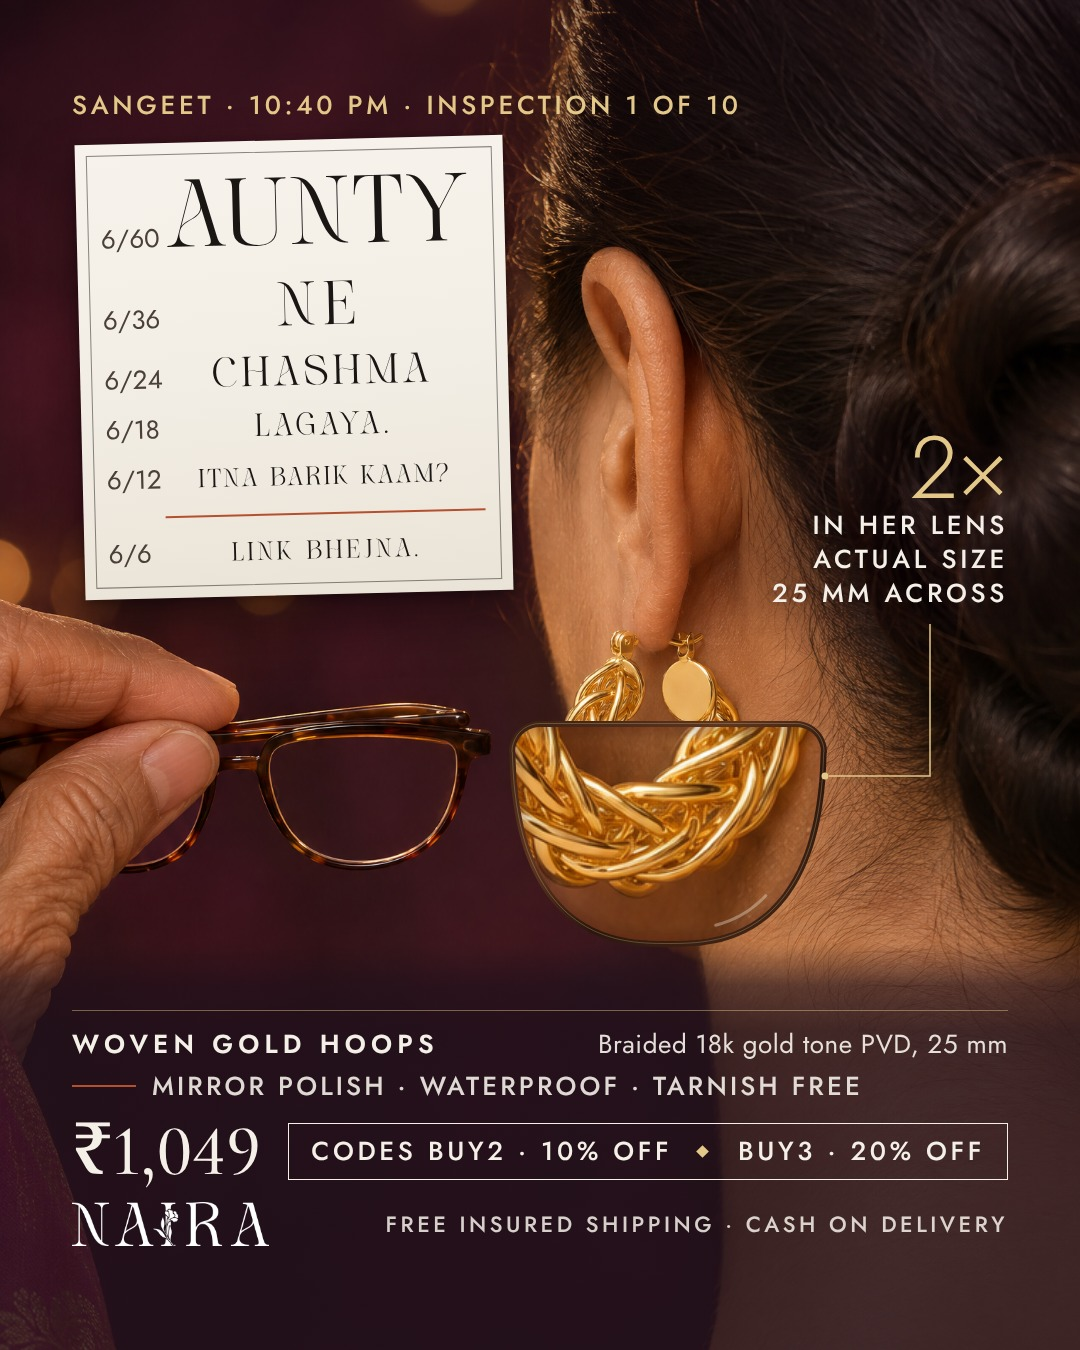
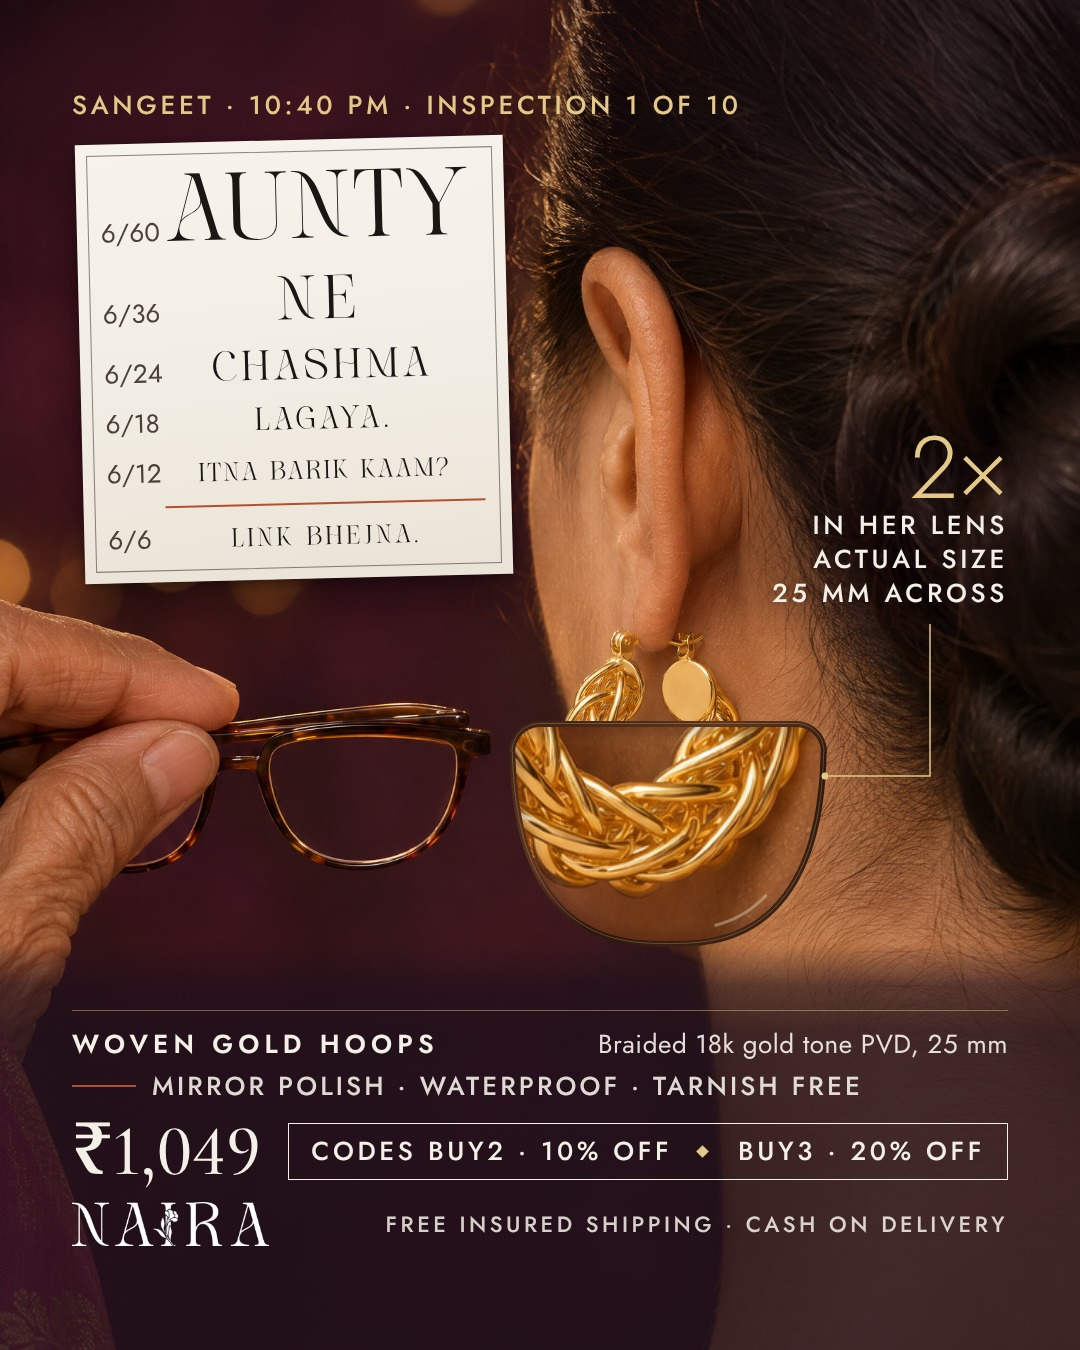
Crazy 100: batch progress
Claude-Session: https://claude.ai/code/session_015dHqE92KQXn2h19sPkpsQR

Changed region(s): [[0.0611, 0.1244, 0.4889, 0.4667], [0.0917, 0.2178, 0.1528, 0.3733]]

diff --git a/docs/creative/concept-50/batches/k01r/k01-1_V3_story.html b/docs/creative/concept-50/batches/k01r/k01-1_V3_story.html
@@ -60,14 +60,14 @@
 <svg class="lens" viewBox="0 0 1080 1920" width="1080" height="1920" aria-hidden="true"><defs><clipPath id="V3sc"><path d="M545.0 900.0 L793.0 900.0 L797.1 900.3 L801.0 901.3 L804.8 902.8 L808.3 905.0 L811.4 907.6 L814.0 910.7 L816.2 914.2 L817.7 918.0 L818.7 921.9 L819.0 926.0 L818.4 929.9 L817.9 937.3 L817.2 944.2 L816.5 950.8 L815.6 957.1 L814.5 963.1 L813.3 968.9 L812.0 974.5 L810.5 979.9 L808.9 985.1 L807.2 990.1 L805.3 995.0 L803.3 999.7 L801.1 1004.3 L798.9 1008.7 L796.4 1013.0 L793.9 1017.1 L791.2 1021.0 L788.4 1024.8 L785.4 1028.5 L782.3 1031.9 L779.1 1035.3 L775.8 1038.5 L772.3 1041.5 L768.7 1044.4 L764.9 1047.2 L761.0 1049.8 L757.0 1052.2 L752.8 1054.5 L748.5 1056.6 L744.1 1058.6 L739.5 1060.4 L734.7 1062.1 L729.8 1063.6 L724.7 1064.9 L719.3 1066.1 L713.8 1067.1 L708.0 1068.0 L701.9 1068.7 L695.4 1069.3 L688.3 1069.7 L680.4 1069.9 L669.0 1070.0 L657.6 1069.9 L649.7 1069.7 L642.6 1069.3 L636.1 1068.7 L630.0 1068.0 L624.2 1067.1 L618.7 1066.1 L613.3 1064.9 L608.2 1063.6 L603.3 1062.1 L598.5 1060.4 L593.9 1058.6 L589.5 1056.6 L585.2 1054.5 L581.0 1052.2 L577.0 1049.8 L573.1 1047.2 L569.3 1044.4 L565.7 1041.5 L562.2 1038.5 L558.9 1035.3 L555.7 1031.9 L552.6 1028.5 L549.6 1024.8 L546.8 1021.0 L544.1 1017.1 L541.6 1013.0 L539.1 1008.7 L536.9 1004.3 L534.7 999.7 L532.7 995.0 L530.8 990.1 L529.1 985.1 L527.5 979.9 L526.0 974.5 L524.7 968.9 L523.5 963.1 L522.4 957.1 L521.5 950.8 L520.8 944.2 L520.1 937.3 L519.6 929.9 L519.0 926.0 L519.3 921.9 L520.3 918.0 L521.8 914.2 L524.0 910.7 L526.6 907.6 L529.7 905.0 L533.2 902.8 L537.0 901.3 L540.9 900.3 L545.0 900.0 Z"/></clipPath><filter id="V3sb" x="-20%" y="-20%" width="140%" height="140%"><feGaussianBlur stdDeviation="6"/></filter><linearGradient id="V3sg" x1="0" y1="0" x2="1" y2="1"><stop offset="0" stop-color="#3B2114"/><stop offset=".35" stop-color="#5E3520"/><stop offset=".6" stop-color="#2B170E"/><stop offset="1" stop-color="#4A2A18"/></linearGradient></defs><g clip-path="url(#V3sc)"><image href="pics/k01-1A.png" x="-674.71" y="-976.38" width="2171.43" height="3840.00" preserveAspectRatio="none"/><path d="M545.0 900.0 L793.0 900.0 L797.1 900.3 L801.0 901.3 L804.8 902.8 L808.3 905.0 L811.4 907.6 L814.0 910.7 L816.2 914.2 L817.7 918.0 L818.7 921.9 L819.0 926.0 L818.4 929.9 L817.9 937.3 L817.2 944.2 L816.5 950.8 L815.6 957.1 L814.5 963.1 L813.3 968.9 L812.0 974.5 L810.5 979.9 L808.9 985.1 L807.2 990.1 L805.3 995.0 L803.3 999.7 L801.1 1004.3 L798.9 1008.7 L796.4 1013.0 L793.9 1017.1 L791.2 1021.0 L788.4 1024.8 L785.4 1028.5 L782.3 1031.9 L779.1 1035.3 L775.8 1038.5 L772.3 1041.5 L768.7 1044.4 L764.9 1047.2 L761.0 1049.8 L757.0 1052.2 L752.8 1054.5 L748.5 1056.6 L744.1 1058.6 L739.5 1060.4 L734.7 1062.1 L729.8 1063.6 L724.7 1064.9 L719.3 1066.1 L713.8 1067.1 L708.0 1068.0 L701.9 1068.7 L695.4 1069.3 L688.3 1069.7 L680.4 1069.9 L669.0 1070.0 L657.6 1069.9 L649.7 1069.7 L642.6 1069.3 L636.1 1068.7 L630.0 1068.0 L624.2 1067.1 L618.7 1066.1 L613.3 1064.9 L608.2 1063.6 L603.3 1062.1 L598.5 1060.4 L593.9 1058.6 L589.5 1056.6 L585.2 1054.5 L581.0 1052.2 L577.0 1049.8 L573.1 1047.2 L569.3 1044.4 L565.7 1041.5 L562.2 1038.5 L558.9 1035.3 L555.7 1031.9 L552.6 1028.5 L549.6 1024.8 L546.8 1021.0 L544.1 1017.1 L541.6 1013.0 L539.1 1008.7 L536.9 1004.3 L534.7 999.7 L532.7 995.0 L530.8 990.1 L529.1 985.1 L527.5 979.9 L526.0 974.5 L524.7 968.9 L523.5 963.1 L522.4 957.1 L521.5 950.8 L520.8 944.2 L520.1 937.3 L519.6 929.9 L519.0 926.0 L519.3 921.9 L520.3 918.0 L521.8 914.2 L524.0 910.7 L526.6 907.6 L529.7 905.0 L533.2 902.8 L537.0 901.3 L540.9 900.3 L545.0 900.0 Z" fill="none" stroke="rgba(26,22,20,0.22)" stroke-width="18" filter="url(#V3sb)"/></g><path d="M545.0 900.0 L793.0 900.0 L797.1 900.3 L801.0 901.3 L804.8 902.8 L808.3 905.0 L811.4 907.6 L814.0 910.7 L816.2 914.2 L817.7 918.0 L818.7 921.9 L819.0 926.0 L818.4 929.9 L817.9 937.3 L817.2 944.2 L816.5 950.8 L815.6 957.1 L814.5 963.1 L813.3 968.9 L812.0 974.5 L810.5 979.9 L808.9 985.1 L807.2 990.1 L805.3 995.0 L803.3 999.7 L801.1 1004.3 L798.9 1008.7 L796.4 1013.0 L793.9 1017.1 L791.2 1021.0 L788.4 1024.8 L785.4 1028.5 L782.3 1031.9 L779.1 1035.3 L775.8 1038.5 L772.3 1041.5 L768.7 1044.4 L764.9 1047.2 L761.0 1049.8 L757.0 1052.2 L752.8 1054.5 L748.5 1056.6 L744.1 1058.6 L739.5 1060.4 L734.7 1062.1 L729.8 1063.6 L724.7 1064.9 L719.3 1066.1 L713.8 1067.1 L708.0 1068.0 L701.9 1068.7 L695.4 1069.3 L688.3 1069.7 L680.4 1069.9 L669.0 1070.0 L657.6 1069.9 L649.7 1069.7 L642.6 1069.3 L636.1 1068.7 L630.0 1068.0 L624.2 1067.1 L618.7 1066.1 L613.3 1064.9 L608.2 1063.6 L603.3 1062.1 L598.5 1060.4 L593.9 1058.6 L589.5 1056.6 L585.2 1054.5 L581.0 1052.2 L577.0 1049.8 L573.1 1047.2 L569.3 1044.4 L565.7 1041.5 L562.2 1038.5 L558.9 1035.3 L555.7 1031.9 L552.6 1028.5 L549.6 1024.8 L546.8 1021.0 L544.1 1017.1 L541.6 1013.0 L539.1 1008.7 L536.9 1004.3 L534.7 999.7 L532.7 995.0 L530.8 990.1 L529.1 985.1 L527.5 979.9 L526.0 974.5 L524.7 968.9 L523.5 963.1 L522.4 957.1 L521.5 950.8 L520.8 944.2 L520.1 937.3 L519.6 929.9 L519.0 926.0 L519.3 921.9 L520.3 918.0 L521.8 914.2 L524.0 910.7 L526.6 907.6 L529.7 905.0 L533.2 902.8 L537.0 901.3 L540.9 900.3 L545.0 900.0 Z" fill="none" stroke="url(#V3sg)" stroke-width="6" stroke-linejoin="round"/><path d="M545.0 900.0 L793.0 900.0 L797.1 900.3 L801.0 901.3 L804.8 902.8 L808.3 905.0 L811.4 907.6 L814.0 910.7 L816.2 914.2 L817.7 918.0 L818.7 921.9 L819.0 926.0 L818.4 929.9 L817.9 937.3 L817.2 944.2 L816.5 950.8 L815.6 957.1 L814.5 963.1 L813.3 968.9 L812.0 974.5 L810.5 979.9 L808.9 985.1 L807.2 990.1 L805.3 995.0 L803.3 999.7 L801.1 1004.3 L798.9 1008.7 L796.4 1013.0 L793.9 1017.1 L791.2 1021.0 L788.4 1024.8 L785.4 1028.5 L782.3 1031.9 L779.1 1035.3 L775.8 1038.5 L772.3 1041.5 L768.7 1044.4 L764.9 1047.2 L761.0 1049.8 L757.0 1052.2 L752.8 1054.5 L748.5 1056.6 L744.1 1058.6 L739.5 1060.4 L734.7 1062.1 L729.8 1063.6 L724.7 1064.9 L719.3 1066.1 L713.8 1067.1 L708.0 1068.0 L701.9 1068.7 L695.4 1069.3 L688.3 1069.7 L680.4 1069.9 L669.0 1070.0 L657.6 1069.9 L649.7 1069.7 L642.6 1069.3 L636.1 1068.7 L630.0 1068.0 L624.2 1067.1 L618.7 1066.1 L613.3 1064.9 L608.2 1063.6 L603.3 1062.1 L598.5 1060.4 L593.9 1058.6 L589.5 1056.6 L585.2 1054.5 L581.0 1052.2 L577.0 1049.8 L573.1 1047.2 L569.3 1044.4 L565.7 1041.5 L562.2 1038.5 L558.9 1035.3 L555.7 1031.9 L552.6 1028.5 L549.6 1024.8 L546.8 1021.0 L544.1 1017.1 L541.6 1013.0 L539.1 1008.7 L536.9 1004.3 L534.7 999.7 L532.7 995.0 L530.8 990.1 L529.1 985.1 L527.5 979.9 L526.0 974.5 L524.7 968.9 L523.5 963.1 L522.4 957.1 L521.5 950.8 L520.8 944.2 L520.1 937.3 L519.6 929.9 L519.0 926.0 L519.3 921.9 L520.3 918.0 L521.8 914.2 L524.0 910.7 L526.6 907.6 L529.7 905.0 L533.2 902.8 L537.0 901.3 L540.9 900.3 L545.0 900.0 Z" fill="none" stroke="#E4C889" stroke-opacity=".28" stroke-width="1" stroke-linejoin="round" transform="translate(0,-.5)"/><path d="M762.6 1029.9 L759.4 1032.5 L756.0 1035.0 L752.4 1037.4 L748.8 1039.7 L745.0 1041.8 L741.1 1043.7 L737.1 1045.5 L732.9 1047.2 L728.6 1048.7 L724.1 1050.1 L719.5 1051.3 L714.7 1052.4" fill="none" stroke="#F4F0E8" stroke-opacity=".35" stroke-width="3" stroke-linecap="round"/></svg>
 <svg class="ovl ink" viewBox="0 0 1080 1920" width="1080" height="1920" aria-hidden="true"><path d="M 930 774 V 940 H 823" fill="none" stroke="#E4C889" stroke-width="1.5"/><circle cx="819" cy="940" r="3.5" fill="#E4C889"/></svg>
 <p class="rail" id="rail" style="right:72px;top:276px;text-align:right">Sangeet · 10:40 PM<br>Inspection 1 of 10</p>
-<div class="card3" id="card3" data-t style="left:80px;top:284px;width:436px;padding:30px 26px 26px 24px;transform:rotate(-1.4deg)">
+<div class="card3" id="card3" data-t style="left:80px;top:284px;width:436px;padding:24px 26px 24px 24px;transform:rotate(-1.4deg)">
  <div class="crow" style="margin-top:0px"><span class="cm" id="cm1">6/60</span><span class="cw" id="cw1" style="font-size:98px;letter-spacing:0.03em">Aunty</span></div>
  <div class="crow" style="margin-top:14px"><span class="cm" id="cm2">6/36</span><span class="cw" id="cw2" style="font-size:64px;letter-spacing:0.12em">Ne</span></div>
  <div class="crow" style="margin-top:14px"><span class="cm" id="cm3">6/24</span><span class="cw" id="cw3" style="font-size:44px;letter-spacing:0.1em">Chashma</span></div>
  <div class="crow" style="margin-top:12px"><span class="cm" id="cm4">6/18</span><span class="cw" id="cw4" style="font-size:33px;letter-spacing:0.12em">Lagaya.</span></div>
  <div class="crow" style="margin-top:12px"><span class="cm" id="cm5">6/12</span><span class="cw" id="cw5" style="font-size:26px;letter-spacing:0.08em">Itna barik kaam?</span></div>
- <div class="red" style="margin-top:18px"></div>
- <div class="crow" style="margin-top:16px"><span class="cm" id="cm7">6/6</span><span class="cw" id="cw7" style="font-size:26px;letter-spacing:0.12em">Link bhejna.</span></div>
+ <div class="red" style="margin-top:14px"></div>
+ <div class="crow" style="margin-top:12px"><span class="cm" id="cm7">6/6</span><span class="cw" id="cw7" style="font-size:26px;letter-spacing:0.12em">Link bhejna.</span></div>
 </div>
 <div class="two" id="two" data-t style="right:72px;top:574px"><span class="x" id="x2">2×</span><span class="l">in her lens</span><span class="l">actual size</span><span class="l">25 mm across</span></div>
 <div class="f2" id="f2" data-t style="top:1088px">

diff --git a/docs/creative/concept-50/batches/k01r/k01-1_V3_feed.html b/docs/creative/concept-50/batches/k01r/k01-1_V3_feed.html
@@ -58,14 +58,14 @@
 <svg class="lens" viewBox="0 0 1080 1350" width="1080" height="1350" aria-hidden="true"><defs><clipPath id="V3fc"><path d="M540.0 724.0 L796.0 724.0 L800.4 724.3 L804.7 725.4 L808.7 727.1 L812.5 729.3 L815.8 732.2 L818.7 735.5 L820.9 739.3 L822.6 743.3 L823.7 747.6 L824.0 752.0 L823.7 752.4 L823.3 762.7 L822.8 772.3 L822.2 781.2 L821.4 789.7 L820.4 797.8 L819.3 805.6 L818.1 813.1 L816.7 820.4 L815.2 827.4 L813.5 834.1 L811.7 840.7 L809.8 847.0 L807.7 853.1 L805.4 859.0 L803.0 864.7 L800.5 870.2 L797.9 875.5 L795.1 880.6 L792.2 885.5 L789.1 890.2 L785.9 894.8 L782.5 899.1 L779.0 903.2 L775.4 907.2 L771.7 910.9 L767.8 914.5 L763.7 917.8 L759.5 921.0 L755.2 923.9 L750.7 926.7 L746.1 929.2 L741.3 931.6 L736.3 933.7 L731.2 935.7 L725.9 937.4 L720.4 939.0 L714.6 940.3 L708.6 941.4 L702.2 942.4 L695.5 943.1 L688.1 943.6 L679.8 943.9 L668.0 944.0 L656.2 943.9 L647.9 943.6 L640.5 943.1 L633.8 942.4 L627.4 941.4 L621.4 940.3 L615.6 939.0 L610.1 937.4 L604.8 935.7 L599.7 933.7 L594.7 931.6 L589.9 929.2 L585.3 926.7 L580.8 923.9 L576.5 921.0 L572.3 917.8 L568.2 914.5 L564.3 910.9 L560.6 907.2 L557.0 903.2 L553.5 899.1 L550.1 894.8 L546.9 890.2 L543.8 885.5 L540.9 880.6 L538.1 875.5 L535.5 870.2 L533.0 864.7 L530.6 859.0 L528.3 853.1 L526.2 847.0 L524.3 840.7 L522.5 834.1 L520.8 827.4 L519.3 820.4 L517.9 813.1 L516.7 805.6 L515.6 797.8 L514.6 789.7 L513.8 781.2 L513.2 772.3 L512.7 762.7 L512.3 752.4 L512.0 752.0 L512.3 747.6 L513.4 743.3 L515.1 739.3 L517.3 735.5 L520.2 732.2 L523.5 729.3 L527.3 727.1 L531.3 725.4 L535.6 724.3 L540.0 724.0 Z"/></clipPath><filter id="V3fb" x="-20%" y="-20%" width="140%" height="140%"><feGaussianBlur stdDeviation="6"/></filter><linearGradient id="V3fg" x1="0" y1="0" x2="1" y2="1"><stop offset="0" stop-color="#3B2114"/><stop offset=".35" stop-color="#5E3520"/><stop offset=".6" stop-color="#2B170E"/><stop offset="1" stop-color="#4A2A18"/></linearGradient></defs><g clip-path="url(#V3fc)"><image href="pics/k01-1A.png" x="-668.00" y="-1136.32" width="2160.00" height="3819.79" preserveAspectRatio="none"/><path d="M540.0 724.0 L796.0 724.0 L800.4 724.3 L804.7 725.4 L808.7 727.1 L812.5 729.3 L815.8 732.2 L818.7 735.5 L820.9 739.3 L822.6 743.3 L823.7 747.6 L824.0 752.0 L823.7 752.4 L823.3 762.7 L822.8 772.3 L822.2 781.2 L821.4 789.7 L820.4 797.8 L819.3 805.6 L818.1 813.1 L816.7 820.4 L815.2 827.4 L813.5 834.1 L811.7 840.7 L809.8 847.0 L807.7 853.1 L805.4 859.0 L803.0 864.7 L800.5 870.2 L797.9 875.5 L795.1 880.6 L792.2 885.5 L789.1 890.2 L785.9 894.8 L782.5 899.1 L779.0 903.2 L775.4 907.2 L771.7 910.9 L767.8 914.5 L763.7 917.8 L759.5 921.0 L755.2 923.9 L750.7 926.7 L746.1 929.2 L741.3 931.6 L736.3 933.7 L731.2 935.7 L725.9 937.4 L720.4 939.0 L714.6 940.3 L708.6 941.4 L702.2 942.4 L695.5 943.1 L688.1 943.6 L679.8 943.9 L668.0 944.0 L656.2 943.9 L647.9 943.6 L640.5 943.1 L633.8 942.4 L627.4 941.4 L621.4 940.3 L615.6 939.0 L610.1 937.4 L604.8 935.7 L599.7 933.7 L594.7 931.6 L589.9 929.2 L585.3 926.7 L580.8 923.9 L576.5 921.0 L572.3 917.8 L568.2 914.5 L564.3 910.9 L560.6 907.2 L557.0 903.2 L553.5 899.1 L550.1 894.8 L546.9 890.2 L543.8 885.5 L540.9 880.6 L538.1 875.5 L535.5 870.2 L533.0 864.7 L530.6 859.0 L528.3 853.1 L526.2 847.0 L524.3 840.7 L522.5 834.1 L520.8 827.4 L519.3 820.4 L517.9 813.1 L516.7 805.6 L515.6 797.8 L514.6 789.7 L513.8 781.2 L513.2 772.3 L512.7 762.7 L512.3 752.4 L512.0 752.0 L512.3 747.6 L513.4 743.3 L515.1 739.3 L517.3 735.5 L520.2 732.2 L523.5 729.3 L527.3 727.1 L531.3 725.4 L535.6 724.3 L540.0 724.0 Z" fill="none" stroke="rgba(26,22,20,0.22)" stroke-width="18" filter="url(#V3fb)"/></g><path d="M540.0 724.0 L796.0 724.0 L800.4 724.3 L804.7 725.4 L808.7 727.1 L812.5 729.3 L815.8 732.2 L818.7 735.5 L820.9 739.3 L822.6 743.3 L823.7 747.6 L824.0 752.0 L823.7 752.4 L823.3 762.7 L822.8 772.3 L822.2 781.2 L821.4 789.7 L820.4 797.8 L819.3 805.6 L818.1 813.1 L816.7 820.4 L815.2 827.4 L813.5 834.1 L811.7 840.7 L809.8 847.0 L807.7 853.1 L805.4 859.0 L803.0 864.7 L800.5 870.2 L797.9 875.5 L795.1 880.6 L792.2 885.5 L789.1 890.2 L785.9 894.8 L782.5 899.1 L779.0 903.2 L775.4 907.2 L771.7 910.9 L767.8 914.5 L763.7 917.8 L759.5 921.0 L755.2 923.9 L750.7 926.7 L746.1 929.2 L741.3 931.6 L736.3 933.7 L731.2 935.7 L725.9 937.4 L720.4 939.0 L714.6 940.3 L708.6 941.4 L702.2 942.4 L695.5 943.1 L688.1 943.6 L679.8 943.9 L668.0 944.0 L656.2 943.9 L647.9 943.6 L640.5 943.1 L633.8 942.4 L627.4 941.4 L621.4 940.3 L615.6 939.0 L610.1 937.4 L604.8 935.7 L599.7 933.7 L594.7 931.6 L589.9 929.2 L585.3 926.7 L580.8 923.9 L576.5 921.0 L572.3 917.8 L568.2 914.5 L564.3 910.9 L560.6 907.2 L557.0 903.2 L553.5 899.1 L550.1 894.8 L546.9 890.2 L543.8 885.5 L540.9 880.6 L538.1 875.5 L535.5 870.2 L533.0 864.7 L530.6 859.0 L528.3 853.1 L526.2 847.0 L524.3 840.7 L522.5 834.1 L520.8 827.4 L519.3 820.4 L517.9 813.1 L516.7 805.6 L515.6 797.8 L514.6 789.7 L513.8 781.2 L513.2 772.3 L512.7 762.7 L512.3 752.4 L512.0 752.0 L512.3 747.6 L513.4 743.3 L515.1 739.3 L517.3 735.5 L520.2 732.2 L523.5 729.3 L527.3 727.1 L531.3 725.4 L535.6 724.3 L540.0 724.0 Z" fill="none" stroke="url(#V3fg)" stroke-width="6" stroke-linejoin="round"/><path d="M540.0 724.0 L796.0 724.0 L800.4 724.3 L804.7 725.4 L808.7 727.1 L812.5 729.3 L815.8 732.2 L818.7 735.5 L820.9 739.3 L822.6 743.3 L823.7 747.6 L824.0 752.0 L823.7 752.4 L823.3 762.7 L822.8 772.3 L822.2 781.2 L821.4 789.7 L820.4 797.8 L819.3 805.6 L818.1 813.1 L816.7 820.4 L815.2 827.4 L813.5 834.1 L811.7 840.7 L809.8 847.0 L807.7 853.1 L805.4 859.0 L803.0 864.7 L800.5 870.2 L797.9 875.5 L795.1 880.6 L792.2 885.5 L789.1 890.2 L785.9 894.8 L782.5 899.1 L779.0 903.2 L775.4 907.2 L771.7 910.9 L767.8 914.5 L763.7 917.8 L759.5 921.0 L755.2 923.9 L750.7 926.7 L746.1 929.2 L741.3 931.6 L736.3 933.7 L731.2 935.7 L725.9 937.4 L720.4 939.0 L714.6 940.3 L708.6 941.4 L702.2 942.4 L695.5 943.1 L688.1 943.6 L679.8 943.9 L668.0 944.0 L656.2 943.9 L647.9 943.6 L640.5 943.1 L633.8 942.4 L627.4 941.4 L621.4 940.3 L615.6 939.0 L610.1 937.4 L604.8 935.7 L599.7 933.7 L594.7 931.6 L589.9 929.2 L585.3 926.7 L580.8 923.9 L576.5 921.0 L572.3 917.8 L568.2 914.5 L564.3 910.9 L560.6 907.2 L557.0 903.2 L553.5 899.1 L550.1 894.8 L546.9 890.2 L543.8 885.5 L540.9 880.6 L538.1 875.5 L535.5 870.2 L533.0 864.7 L530.6 859.0 L528.3 853.1 L526.2 847.0 L524.3 840.7 L522.5 834.1 L520.8 827.4 L519.3 820.4 L517.9 813.1 L516.7 805.6 L515.6 797.8 L514.6 789.7 L513.8 781.2 L513.2 772.3 L512.7 762.7 L512.3 752.4 L512.0 752.0 L512.3 747.6 L513.4 743.3 L515.1 739.3 L517.3 735.5 L520.2 732.2 L523.5 729.3 L527.3 727.1 L531.3 725.4 L535.6 724.3 L540.0 724.0 Z" fill="none" stroke="#E4C889" stroke-opacity=".28" stroke-width="1" stroke-linejoin="round" transform="translate(0,-.5)"/><path d="M765.8 895.5 L762.4 899.0 L758.8 902.3 L755.1 905.5 L751.3 908.4 L747.4 911.2 L743.3 913.8 L739.1 916.2 L734.7 918.4 L730.2 920.4 L725.5 922.2 L720.7 923.8 L715.7 925.3" fill="none" stroke="#F4F0E8" stroke-opacity=".35" stroke-width="3" stroke-linecap="round"/></svg>
 <svg class="ovl ink" viewBox="0 0 1080 1350" width="1080" height="1350" aria-hidden="true"><path d="M 930 624 V 776 H 829" fill="none" stroke="#E4C889" stroke-width="1.5"/><circle cx="825" cy="776" r="3.5" fill="#E4C889"/></svg>
 <p class="rail" id="rail" style="left:72px;top:88px">Sangeet · 10:40 PM · Inspection 1 of 10</p>
-<div class="card3" id="card3" data-t style="left:80px;top:140px;width:428px;padding:30px 26px 26px 24px;transform:rotate(-1.4deg)">
+<div class="card3" id="card3" data-t style="left:80px;top:140px;width:428px;padding:24px 26px 24px 24px;transform:rotate(-1.4deg)">
  <div class="crow" style="margin-top:0px"><span class="cm" id="cm1">6/60</span><span class="cw" id="cw1" style="font-size:96px;letter-spacing:0.03em">Aunty</span></div>
  <div class="crow" style="margin-top:14px"><span class="cm" id="cm2">6/36</span><span class="cw" id="cw2" style="font-size:62px;letter-spacing:0.12em">Ne</span></div>
  <div class="crow" style="margin-top:14px"><span class="cm" id="cm3">6/24</span><span class="cw" id="cw3" style="font-size:42px;letter-spacing:0.1em">Chashma</span></div>
  <div class="crow" style="margin-top:12px"><span class="cm" id="cm4">6/18</span><span class="cw" id="cw4" style="font-size:32px;letter-spacing:0.12em">Lagaya.</span></div>
  <div class="crow" style="margin-top:12px"><span class="cm" id="cm5">6/12</span><span class="cw" id="cw5" style="font-size:26px;letter-spacing:0.08em">Itna barik kaam?</span></div>
- <div class="red" style="margin-top:18px"></div>
- <div class="crow" style="margin-top:16px"><span class="cm" id="cm7">6/6</span><span class="cw" id="cw7" style="font-size:26px;letter-spacing:0.12em">Link bhejna.</span></div>
+ <div class="red" style="margin-top:14px"></div>
+ <div class="crow" style="margin-top:12px"><span class="cm" id="cm7">6/6</span><span class="cw" id="cw7" style="font-size:26px;letter-spacing:0.12em">Link bhejna.</span></div>
 </div>
 <div class="two" id="two" data-t style="right:72px;top:428px"><span class="x" id="x2">2×</span><span class="l">in her lens</span><span class="l">actual size</span><span class="l">25 mm across</span></div>
 <div class="f2" id="f2" data-t style="top:1010px">

diff --git a/docs/creative/concept-50/batches/k02a/_plain_P45.html b/docs/creative/concept-50/batches/k02a/_plain_P45.html
@@ -1,0 +1,1 @@
+<!doctype html><html><head><meta charset="utf-8"><link rel="stylesheet" href="../../../ads-500/kit/kit.css"><style>.pic{object-position:50% 45%}</style></head><body class="dark"><img class="pic" src="pics/k02-2A.png"></body></html>

diff --git a/docs/creative/concept-50/batches/k02a/_plain_P60.html b/docs/creative/concept-50/batches/k02a/_plain_P60.html
@@ -1,0 +1,1 @@
+<!doctype html><html><head><meta charset="utf-8"><link rel="stylesheet" href="../../../ads-500/kit/kit.css"><style>.pic{object-position:50% 60%}</style></head><body class="dark"><img class="pic" src="pics/k02-2A.png"></body></html>

diff --git a/docs/creative/concept-50/batches/k02a/_plain_story.html b/docs/creative/concept-50/batches/k02a/_plain_story.html
@@ -1,0 +1,1 @@
+<!doctype html><html><head><meta charset="utf-8"><link rel="stylesheet" href="../../../ads-500/kit/kit.css"><style></style></head><body class="dark story"><img class="pic" src="pics/k02-2A.png"></body></html>
